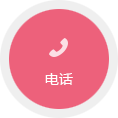
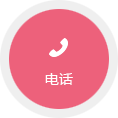
refine wine button color

Changed region(s): [[0.4068, 0.3051, 0.5847, 0.4831]]

diff --git a/stylesheets/main.css b/stylesheets/main.css
@@ -254,14 +254,14 @@ label.error {
 .btn-wine {
   color: #fff;
   text-shadow: 0 -1px 0 rgba(0,0,0,0.25);
-  background-color: #e64b6a;
+  background-color: #e6e6e6;
   background-image: none;
   padding: 5px 15px;
 }
 
 .btn-wine:hover {
   color: #fff;
-  background-color: #ed617b;
+  background-color: #e64b6a;
 }
 
 /*************** map ************/
